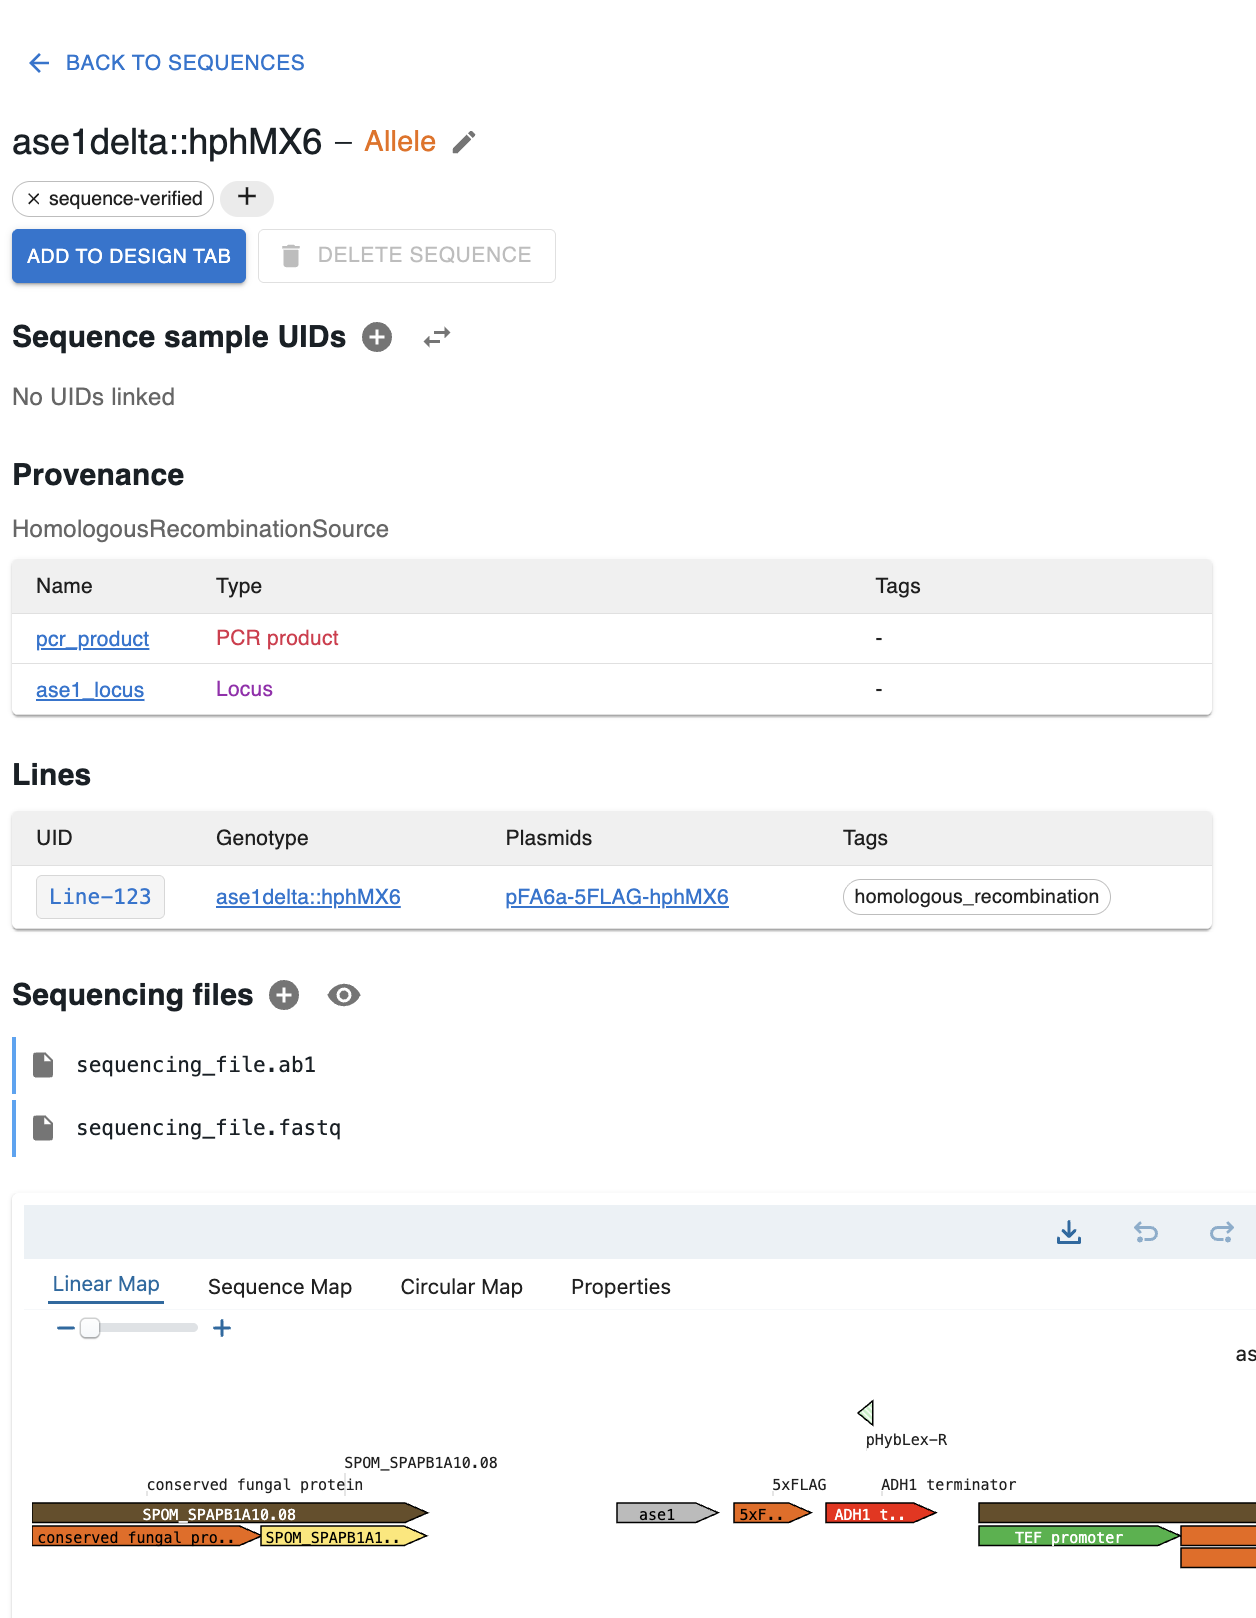
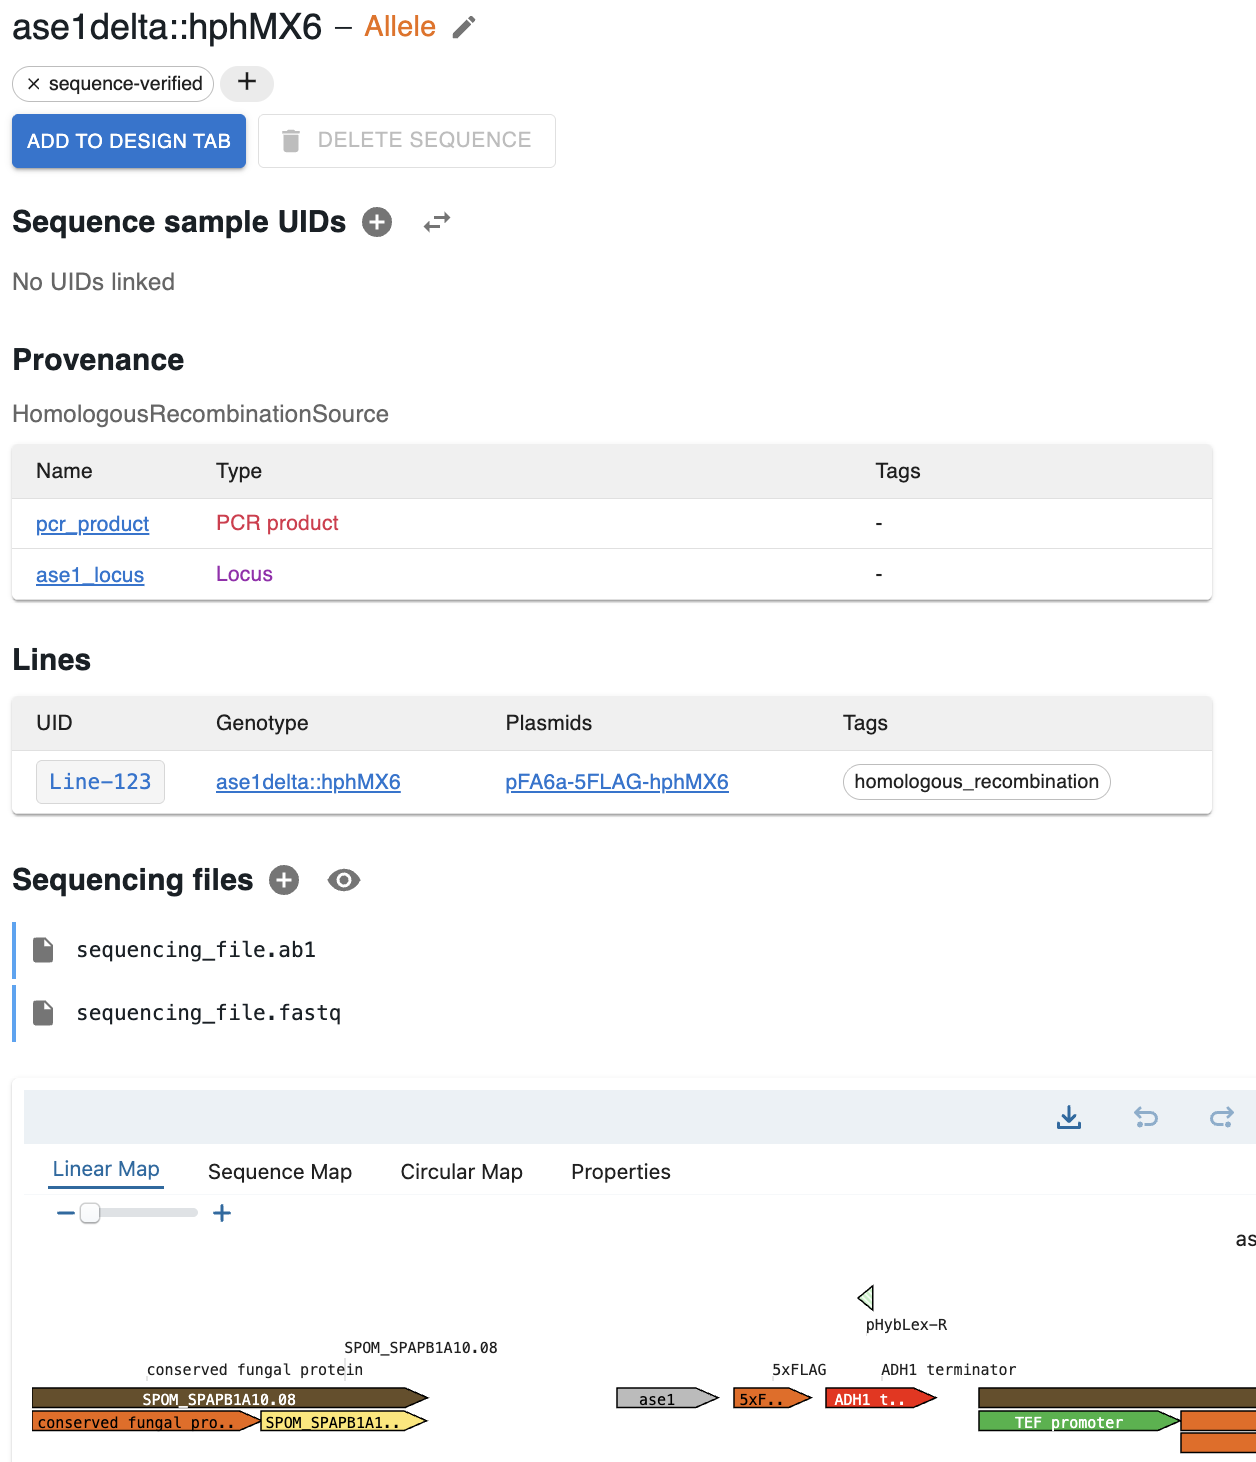
extra commits

diff --git a/index.html b/index.html
@@ -172,6 +172,29 @@
             -webkit-column-break-before: always;
         }
 
+        /* Call to action: teal so it stands out from the blue info banners */
+        div.cta {
+            display: flex;
+            align-items: center;
+            justify-content: space-between;
+            background-color: #00796b;
+            color: white;
+            border-radius: 1em;
+            padding: .8em 1em;
+            margin-top: .6em;
+        }
+
+        div.cta .cta-title {
+            font-size: 1.3em;
+            font-weight: bold;
+            margin-bottom: .2em;
+        }
+
+        div.cta .cta-email {
+            font-weight: bold;
+            margin-top: .3em;
+        }
+
         div.box pre {
             background-color: #f3f6fa;
             border: .1em solid #1976d2;
@@ -243,8 +266,8 @@
         <div class="logo">
             <div id="author-title-info"></div>
             <div class="logos">
-                <img src="logo.svg" alt="" width="600mm" class="logo" style="margin-right: 1em;">
-                <img src="qr_mailing_list.png" alt="" width="200mm" class="logo">
+                <img src="biochemical-society.png" alt="Biochemical Society" width="480mm" class="logo" style="margin-right: 2em; align-self: flex-end; margin-bottom: 1.5em;">
+                <img src="logo.svg" alt="" width="600mm" class="logo">
             </div>
         </div>
         </div>

diff --git a/content1.md b/content1.md
@@ -15,6 +15,12 @@ An **open-source platform to plan, document and automate DNA engineering**.
     <img width="100%" src="./app_screenshot2.png" alt="">
 </div>
 
+<div class="mt-2 img-wrapper alert alert-info" role="alert" style="display: flex; justify-content: center; align-items: center; border-radius: 1em;">
+  <div>Use it at <u>https://app.opencloning.org</u></div>
+  <!-- PLACEHOLDER: replace with <img width="140em" src="qr_app.png" alt=""> -->
+  <div class="ph" style="width: 140px; height: 140px; flex-shrink: 0; margin-left: 1em;"></div>
+</div>
+
 </div>
 </div>
 
@@ -38,6 +44,12 @@ print(product.history())
         ├─╼ insert2 (Dseqrecord(-27))
         └─╼ vector (Dseqrecord(o35))
 ```
+
+<div class="mt-2 img-wrapper alert alert-info" role="alert" style="display: flex; justify-content: center; align-items: center; border-radius: 1em;">
+  <div>See an example Python notebook</div>
+  <!-- PLACEHOLDER: replace with <img width="140em" src="qr_notebook.png" alt=""> -->
+  <div class="ph" style="width: 140px; height: 140px; flex-shrink: 0; margin-left: 1em;"></div>
+</div>
 
 </div>
 </div>
@@ -68,10 +80,20 @@ print(product.history())
 ## Go beyond cloning and manage your collection
 
 * **Sequences, oligos, strains and sequencing data** in one database, connected by provenance.
-* **Self-host it, or get managed hosting** from us.
+* **We can host it for your lab**, or you can **self-host it**: it's open source.
 
 <div class="img-wrapper">
     <img width="85%" src="./opencloning-db-line.png" alt="">
+</div>
+
+<div class="cta">
+  <div>
+    <div class="cta-title">Try OpenCloningDB in your lab</div>
+    <div>We're looking for labs to try it. We'll help you get set up, and your feedback shapes what we build next.</div>
+    <div class="cta-email">✉ manulera14@gmail.com</div>
+  </div>
+  <!-- PLACEHOLDER: replace with a QR for mailto:manulera14@gmail.com?subject=OpenCloningDB -->
+  <div class="ph" style="width: 160px; height: 160px; flex-shrink: 0; margin-left: 1em;"></div>
 </div>
 
 </div>
